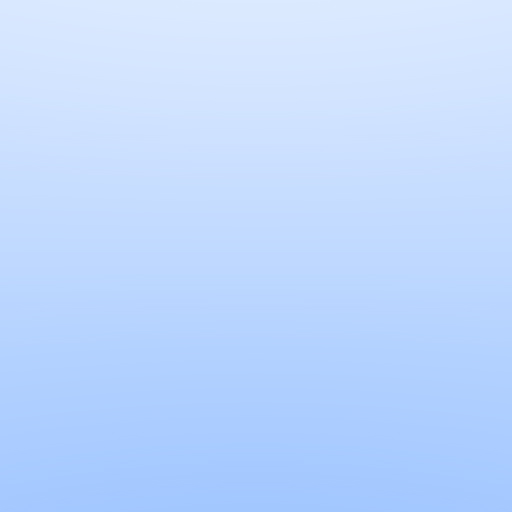
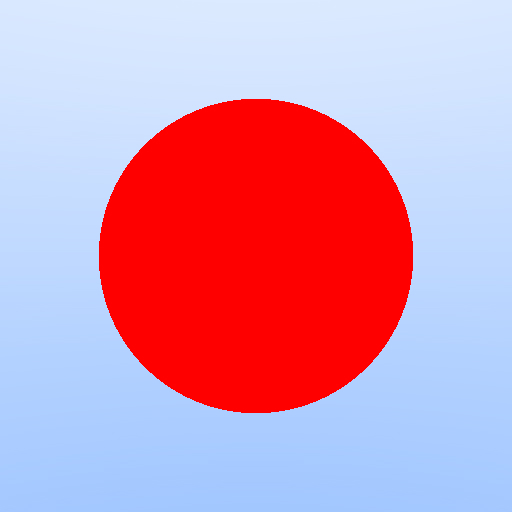
[brief] Updates README with results of second test.
[detailed]

Changed region(s): [[0.1875, 0.1875, 0.8125, 0.8125]]

diff --git a/src/renderer.hpp b/src/renderer.hpp
@@ -53,10 +53,8 @@ public:
                     static_cast<float>(col) - 0.5f * width + sample_pt.x(),
                     static_cast<float>(row) - 0.5f * height + sample_pt.y(),
                     0.0f};
-                ray.direction  = scene.get_camera().get_ray_direction(pixel_pt);
-                Colourf colour = scene.trace(ray, shapes, materials);
-
-                image(row, col) = colour;
+                ray.direction = scene.get_camera().get_ray_direction(pixel_pt);
+                image(row, col) = scene.trace(ray, shapes, materials);
             }
         }
     }

diff --git a/src/main.cpp b/src/main.cpp
@@ -5,10 +5,10 @@
 #include <fmt/printf.h>
 #include <zeus/timer.hpp>
 
-constexpr std::size_t image_width{50};
-constexpr std::size_t image_height{50};
+constexpr std::size_t image_width{512};
+constexpr std::size_t image_height{512};
 
-#define CTRT_DO_STATIC_RENDER
+//#define CTRT_DO_STATIC_RENDER
 
 auto render_scene_1()
 {

diff --git a/README.md b/README.md
@@ -28,14 +28,15 @@ Last render performed:
 ## Performance
 
 All tests were performed on a PC running Windows 10 64-bit with an AMD Ryzen 9
-3900X processor and 64 GB of RAM. The code was compiled using MSVC 16.8.5. The
+3900X processor and 64 GB of RAM. The code was compiled using MSVC 16.9.1. The
 comparisons were performed by generating the image both at runtime and compile
 time. All tested images are 512x512 and can be found in the `test_images`
 directory. Results are as follows:
 
 | Test | Runtime | Compile-time |
 |------|---------|--------------|
-| test_01 | 14.305 ms | 19m 35s |
+| test_01 | 1.67 ms | 19m 35s |
+| test_02 | 3.10 ms| 34m 36s |
 
 ## Dependencies
 
